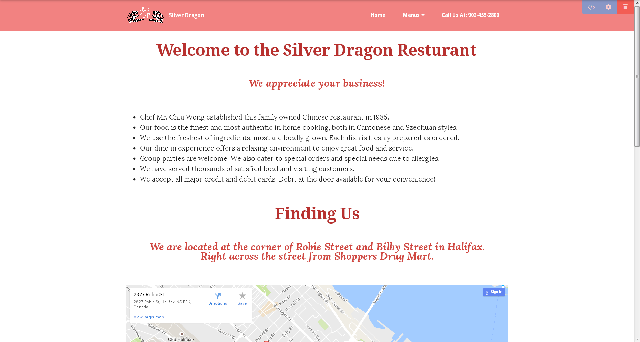
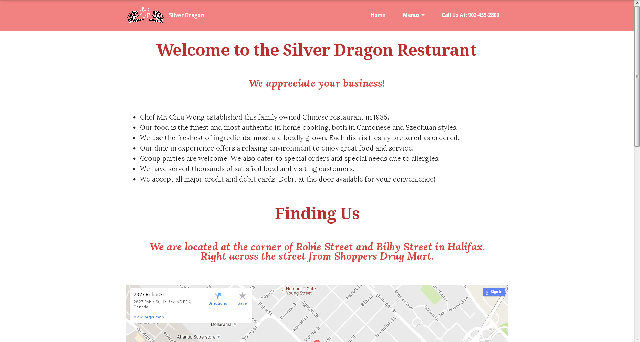
google maps
google maps

diff --git a/dine-in-menu.html b/dine-in-menu.html
@@ -223,7 +223,14 @@
   <script src="assets/bootstrap-carousel-swipe/bootstrap-carousel-swipe.js"></script>
   <script src="assets/theme/js/script.js"></script>
   
-  <!-- Analytics BEGIN -->
+  <script type="text/javascript">
+$('.mbr-map')
+	.click(function(){
+			$(this).find('iframe').addClass('clicked')})
+	.mouseleave(function(){
+			$(this).find('iframe').removeClass('clicked')});
+</script>
+<!-- Analytics BEGIN -->
 <script type="text/javascript">
 var addthis_share = {
 	url: "http://SilverDragonRestaurant.ca",

diff --git a/take-out-menu.html b/take-out-menu.html
@@ -208,7 +208,14 @@
   <script src="assets/bootstrap-carousel-swipe/bootstrap-carousel-swipe.js"></script>
   <script src="assets/theme/js/script.js"></script>
   
-  <!-- Analytics BEGIN -->
+  <script type="text/javascript">
+$('.mbr-map')
+	.click(function(){
+			$(this).find('iframe').addClass('clicked')})
+	.mouseleave(function(){
+			$(this).find('iframe').removeClass('clicked')});
+</script>
+<!-- Analytics BEGIN -->
 <script type="text/javascript">
 var addthis_share = {
 	url: "http://SilverDragonRestaurant.ca",

diff --git a/404.html b/404.html
@@ -116,7 +116,14 @@
   <script src="assets/touchSwipe/jquery.touchSwipe.min.js"></script>
   <script src="assets/theme/js/script.js"></script>
   
-  <!-- Analytics BEGIN -->
+  <script type="text/javascript">
+$('.mbr-map')
+	.click(function(){
+			$(this).find('iframe').addClass('clicked')})
+	.mouseleave(function(){
+			$(this).find('iframe').removeClass('clicked')});
+</script>
+<!-- Analytics BEGIN -->
 <script type="text/javascript">
 var addthis_share = {
 	url: "http://SilverDragonRestaurant.ca",

diff --git a/index.html b/index.html
@@ -170,7 +170,14 @@
   <script src="assets/touchSwipe/jquery.touchSwipe.min.js"></script>
   <script src="assets/theme/js/script.js"></script>
   
-  <!-- Analytics BEGIN -->
+  <script type="text/javascript">
+$('.mbr-map')
+	.click(function(){
+			$(this).find('iframe').addClass('clicked')})
+	.mouseleave(function(){
+			$(this).find('iframe').removeClass('clicked')});
+</script>
+<!-- Analytics BEGIN -->
 <script type="text/javascript">
 var addthis_share = {
 	url: "http://SilverDragonRestaurant.ca",

diff --git a/lunch-menu.html b/lunch-menu.html
@@ -108,7 +108,14 @@
   <script src="assets/touchSwipe/jquery.touchSwipe.min.js"></script>
   <script src="assets/theme/js/script.js"></script>
   
-  <!-- Analytics BEGIN -->
+  <script type="text/javascript">
+$('.mbr-map')
+	.click(function(){
+			$(this).find('iframe').addClass('clicked')})
+	.mouseleave(function(){
+			$(this).find('iframe').removeClass('clicked')});
+</script>
+<!-- Analytics BEGIN -->
 <script type="text/javascript">
 var addthis_share = {
 	url: "http://SilverDragonRestaurant.ca",

diff --git a/page1.html b/page1.html
@@ -93,7 +93,14 @@
   <script src="assets/touchSwipe/jquery.touchSwipe.min.js"></script>
   <script src="assets/theme/js/script.js"></script>
   
-  <!-- Analytics BEGIN -->
+  <script type="text/javascript">
+$('.mbr-map')
+	.click(function(){
+			$(this).find('iframe').addClass('clicked')})
+	.mouseleave(function(){
+			$(this).find('iframe').removeClass('clicked')});
+</script>
+<!-- Analytics BEGIN -->
 <script type="text/javascript">
 var addthis_share = {
 	url: "http://SilverDragonRestaurant.ca",

diff --git a/mixitup/mixitup.css b/mixitup/mixitup.css
@@ -1,7 +1,14 @@
 /* Theme Settings */
-.at4-follow .at4-follow-container .at-follow-label {
+.at4-follow .at4-follow-container .at-follow-label{
 	font-family: 'Droid Sans', sans-serif;
 	color: #000000;
 	font-weight: bold;
 	font-size: 15px;
+}
+/* Map Settings */
+.mbr-map iframe{
+	pointer-events: none;
+}
+.mbr-map iframe.clicked{
+	pointer-events: auto;
 }
